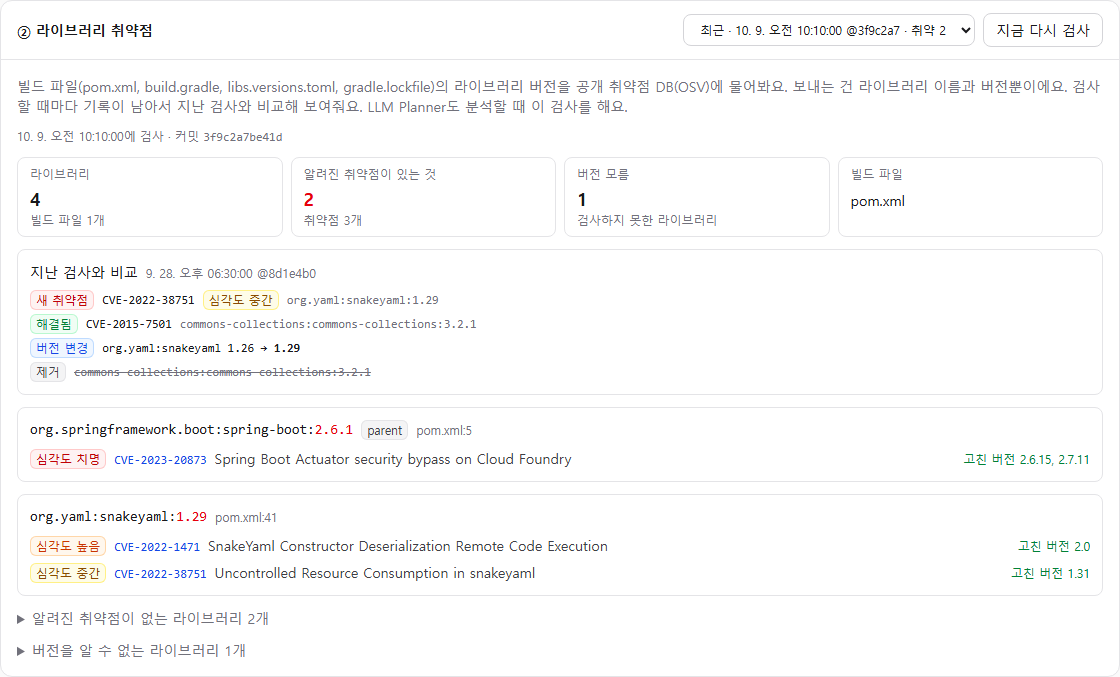
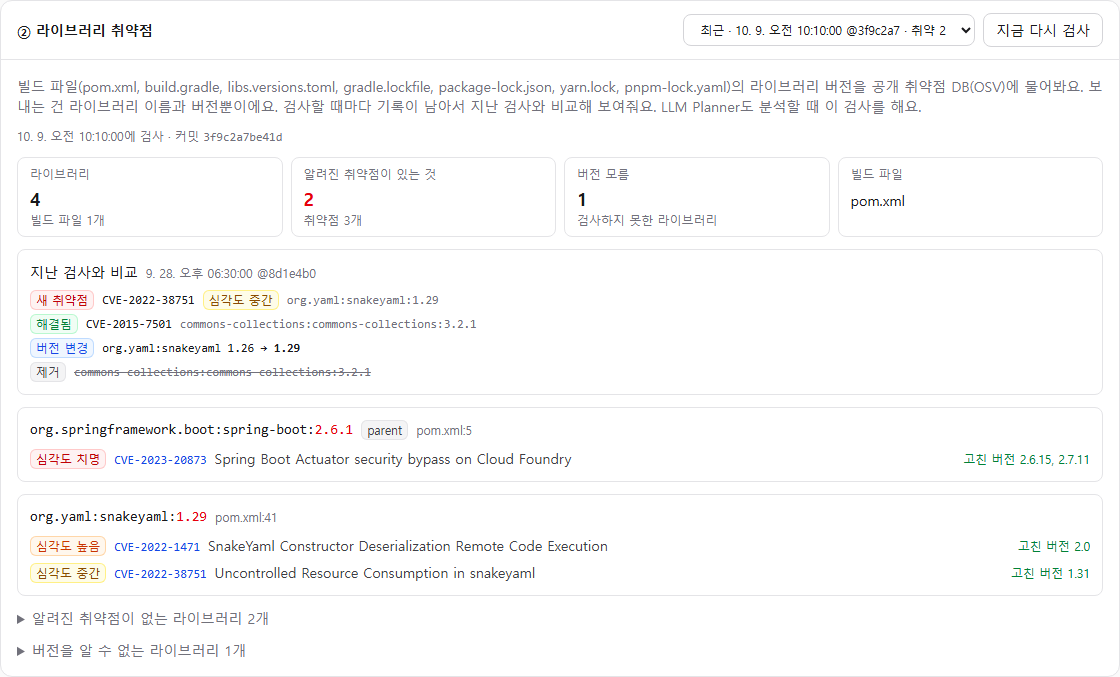
Mark frontend JS/TS sinks and the new frontend categories
Sinks from frontend code get a "프론트엔드" badge, badges for
HARDCODED_SECRET, TOKEN_STORAGE and POSTMESSAGE, and the library card
mentions npm lockfiles.

Changed region(s): [[0.0, 0.0931, 0.9688, 0.1861]]

diff --git a/e2e/mockApi.ts b/e2e/mockApi.ts
@@ -77,6 +77,9 @@ const sinks: SinkView[] = [
   { id: 205, category: 'PATH', cwe: 'CWE-22', api: 'java.nio.file.Paths.get', method: `${PKG}.service.FileService#read(String)`, snippet: 'Paths.get(BASE_DIR, name)', filePath: `${SERVICE_DIR}/FileService.java`, line: 17 },
   { id: 206, category: 'PATH', cwe: 'CWE-22', api: 'java.io.FileInputStream.<init>', method: `${PKG}.service.FileService#load(String)`, snippet: 'new FileInputStream(BASE_DIR + "/" + name)', filePath: `${SERVICE_DIR}/FileService.java`, line: 21 },
   { id: 207, category: 'DESERIALIZATION', cwe: 'CWE-502', api: 'java.io.ObjectInputStream.readObject', method: `${PKG}.service.FileService#load(String)`, snippet: 'in.readObject()', filePath: `${SERVICE_DIR}/FileService.java`, line: 22 },
+  // 프론트엔드 코드의 위험 지점 (진입점 경로 없음)
+  { id: 208, category: 'XSS', cwe: 'CWE-79', api: 'React dangerouslySetInnerHTML', method: 'Comment', snippet: 'return <div dangerouslySetInnerHTML={{ __html: html }} />', filePath: 'frontend/src/components/Comment.tsx', line: 5, frontend: true },
+  { id: 209, category: 'TOKEN_STORAGE', cwe: 'CWE-922', api: 'localStorage/sessionStorage 토큰 저장', method: 'auth', snippet: "localStorage.setItem('accessToken', token)", filePath: 'frontend/src/auth.ts', line: 4, frontend: true },
 ]
 
 const method = (id: number, qualifiedName: string) => ({ id, kind: 'METHOD', qualifiedName, filePath: null, line: null })

diff --git a/e2e/app.spec.ts b/e2e/app.spec.ts
@@ -50,9 +50,13 @@ test.describe('프로젝트 상세', () => {
     await page.goto('/projects/1')
     await page.getByRole('tab', { name: /^진입점 5/ }).click()
     await expect(page.getByText('/api/users/health')).toBeVisible()
-    await page.getByRole('tab', { name: /위험 지점 7/ }).click()
+    await page.getByRole('tab', { name: /위험 지점 9/ }).click()
     await expect(page.getByText('java.io.ObjectInputStream.readObject')).toBeVisible()
     await expect(page.getByText('CWE-502')).toBeVisible()
+    // 프론트엔드 코드의 위험 지점은 따로 표시한다
+    const xss = page.getByRole('listitem').filter({ hasText: 'React dangerouslySetInnerHTML' })
+    await expect(xss).toContainText('프론트엔드')
+    await expect(xss).toContainText('frontend/src/components/Comment.tsx:5')
   })
 
   test('코드 그래프를 만들면 통계를 보여준다', async ({ page }) => {

diff --git a/src/pages/project/DependencyCard.tsx b/src/pages/project/DependencyCard.tsx
@@ -50,7 +50,7 @@ export default function DependencyCard({ projectId }: { projectId: number }) {
       }
     >
       <p className="text-sm text-zinc-500">
-        빌드 파일(pom.xml, build.gradle, libs.versions.toml, gradle.lockfile)의 라이브러리 버전을 공개 취약점 DB(OSV)에 물어봐요.
+        빌드 파일(pom.xml, build.gradle, libs.versions.toml, gradle.lockfile, package-lock.json, yarn.lock, pnpm-lock.yaml)의 라이브러리 버전을 공개 취약점 DB(OSV)에 물어봐요.
         보내는 건 라이브러리 이름과 버전뿐이에요. 검사할 때마다 기록이 남아서 지난 검사와 비교해 보여줘요. LLM Planner도 분석할 때 이 검사를 해요.
       </p>
       <div className="mt-3 space-y-3">

diff --git a/src/pages/ProjectPage.tsx b/src/pages/ProjectPage.tsx
@@ -170,6 +170,7 @@ function CodeGraphTabs({ projectId }: { projectId: number }) {
                   <li key={s.id} className="py-2">
                     <div className="flex flex-wrap items-center gap-2">
                       <CategoryBadge category={s.category} cwe={s.cwe} />
+                      {s.frontend && <Badge tone="blue">프론트엔드</Badge>}
                       <Code>{s.api}</Code>
                     </div>
                     <div className="mt-1 text-xs text-zinc-500">

diff --git a/src/api/types.ts b/src/api/types.ts
@@ -61,6 +61,8 @@ export interface SinkView {
   snippet: string
   filePath: string | null
   line: number | null
+  /** 프론트엔드(JS/TS/Vue/HTML) 코드의 위험 지점. 진입점에서 이어지는 경로가 없다 */
+  frontend?: boolean
 }
 
 export interface SinkPathView {

diff --git a/src/components/status.tsx b/src/components/status.tsx
@@ -88,6 +88,9 @@ const CATEGORY_TONES: Record<string, Tone> = {
   XXE: 'orange',
   XSS: 'orange',
   OPEN_REDIRECT: 'yellow',
+  HARDCODED_SECRET: 'red',
+  TOKEN_STORAGE: 'yellow',
+  POSTMESSAGE: 'yellow',
   WEAK_CRYPTO: 'yellow',
   WEAK_RANDOM: 'yellow',
   IDOR: 'purple',

diff --git a/README.md b/README.md
@@ -24,7 +24,7 @@ claude plugin install code-agent@yeomyaloo-code-agent
 
 ![Project detail](docs/screenshots/project.png)
 
-**Library vulnerabilities**: libraries from the build files with known vulnerabilities (CVE, severity, fixed version) from the public OSV database. Every scan is kept with its commit and compared with the previous one (version changes, new and resolved vulnerabilities); pick an older scan from the history. A new scan runs only when you press the button
+**Library vulnerabilities**: libraries from the build files (Maven, Gradle, npm) with known vulnerabilities (CVE, severity, fixed version) from the public OSV database. Every scan is kept with its commit and compared with the previous one (version changes, new and resolved vulnerabilities); pick an older scan from the history. A new scan runs only when you press the button
 
 ![Library vulnerabilities](docs/screenshots/dependencies.png)
 
@@ -56,7 +56,7 @@ claude plugin install code-agent@yeomyaloo-code-agent
 | Page | What it does | API used |
 |---|---|---|
 | **Projects** `/` | Register a repository by Git URL or server folder path, list registered repositories | `POST /api/projects`, `GET /api/projects` |
-| **Project detail** `/projects/:id` | Pull the latest commit, build the code graph (file, method, entry point and sink stats), browse entry point → sink paths, entry points and sinks, library vulnerabilities (build files + OSV, on demand; scan history and comparison with the previous scan), analyzed commit per analysis, start an analysis (planning mode: LLM Planner / mechanically per path; optionally wait for human approval of each plan), analysis list (status, finished tasks, finding counts, tokens) | `/sync`, `/index`, `/code-graph/*`, `/dependency-scans`, `POST·GET /analyses` |
+| **Project detail** `/projects/:id` | Pull the latest commit, build the code graph (file, method, entry point and sink stats), browse entry point → sink paths, entry points and sinks (frontend JS/TS sinks are marked), library vulnerabilities (build files + OSV, on demand; scan history and comparison with the previous scan), analyzed commit per analysis, start an analysis (planning mode: LLM Planner / mechanically per path; optionally wait for human approval of each plan), analysis list (status, finished tasks, finding counts, tokens) | `/sync`, `/index`, `/code-graph/*`, `/dependency-scans`, `POST·GET /analyses` |
 | **Analysis** `/analyses/:id` | Plan approval while `WAITING_APPROVAL` (drop tasks, approve or reject) and the approval history, real-time progress (server events, SSE; falls back to 2-second polling), token usage, findings (Verifier verdict, evidence code, attack example), human review, the Planner's per-round plans and per-task conclusions, agent log timeline, HTML and SARIF reports | `GET /analyses/:id`, `/approve`, `/reject`, `/traces`, `/findings/:id/review`, `/verify`, `/report.*` |
 
 The **Agent log** tab shows what the agent did, in order: what Claude thought, which tools it called, and what results it got back. While an analysis is running, it follows new entries automatically.
@@ -192,7 +192,7 @@ claude plugin install code-agent@yeomyaloo-code-agent
 
 ![프로젝트 상세](docs/screenshots/project.png)
 
-**라이브러리 취약점**: 빌드 파일의 라이브러리 중 공개 취약점 DB(OSV)에 알려진 취약점이 있는 것(CVE, 심각도, 고친 버전). 검사마다 커밋과 함께 기록이 남고 지난 검사와 비교한다(버전 변경, 새 취약점, 해결된 취약점). 기록에서 예전 검사를 골라 볼 수 있다. 새 검사는 버튼을 눌렀을 때만 한다
+**라이브러리 취약점**: 빌드 파일(Maven, Gradle, npm)의 라이브러리 중 공개 취약점 DB(OSV)에 알려진 취약점이 있는 것(CVE, 심각도, 고친 버전). 검사마다 커밋과 함께 기록이 남고 지난 검사와 비교한다(버전 변경, 새 취약점, 해결된 취약점). 기록에서 예전 검사를 골라 볼 수 있다. 새 검사는 버튼을 눌렀을 때만 한다
 
 ![라이브러리 취약점](docs/screenshots/dependencies.png)
 
@@ -224,7 +224,7 @@ claude plugin install code-agent@yeomyaloo-code-agent
 | 화면 | 하는 일 | 쓰는 API |
 |---|---|---|
 | **프로젝트** `/` | Git 주소나 서버 폴더 경로로 저장소 등록, 등록된 저장소 목록 | `POST /api/projects`, `GET /api/projects` |
-| **프로젝트 상세** `/projects/:id` | 최신 커밋 받기, 코드 그래프 만들기(파일·메서드·진입점·위험 지점 통계), 진입점 → 위험 지점 경로·진입점·위험 지점 조회, 라이브러리 취약점(빌드 파일 + OSV, 버튼을 누를 때만. 검사 기록과 지난 검사와의 비교), 분석마다 분석한 커밋, 분석 시작(계획 방식: LLM Planner / 경로마다 기계적으로, 계획마다 사람 승인받기 선택), 분석 목록(상태·할 일·발견 개수·토큰) | `/sync`, `/index`, `/code-graph/*`, `/dependency-scans`, `POST·GET /analyses` |
+| **프로젝트 상세** `/projects/:id` | 최신 커밋 받기, 코드 그래프 만들기(파일·메서드·진입점·위험 지점 통계), 진입점 → 위험 지점 경로·진입점·위험 지점 조회(프론트엔드 JS/TS 위험 지점 표시), 라이브러리 취약점(빌드 파일 + OSV, 버튼을 누를 때만. 검사 기록과 지난 검사와의 비교), 분석마다 분석한 커밋, 분석 시작(계획 방식: LLM Planner / 경로마다 기계적으로, 계획마다 사람 승인받기 선택), 분석 목록(상태·할 일·발견 개수·토큰) | `/sync`, `/index`, `/code-graph/*`, `/dependency-scans`, `POST·GET /analyses` |
 | **분석** `/analyses/:id` | 승인 대기(`WAITING_APPROVAL`) 중이면 계획 승인(할 일 빼기·승인·거절)과 승인 기록, 실시간 진행 상황(서버 이벤트 SSE, 끊기면 2초 폴링), 토큰 사용량, 발견 목록(Verifier 판정·근거 코드·공격 예시), 사람 검토, Planner 회차별 계획과 할 일별 결론, 에이전트 기록 타임라인, HTML·SARIF 보고서 | `GET /analyses/:id`, `/approve`, `/reject`, `/traces`, `/findings/:id/review`, `/verify`, `/report.*` |
 
 **에이전트 기록** 탭에서는 에이전트가 한 일을 순서대로 볼 수 있다. Claude가 무슨 생각을 했고, 어떤 도구를 불렀고, 무슨 결과를 받았는지가 나온다. 분석이 진행 중이면 새 기록을 자동으로 따라간다.
